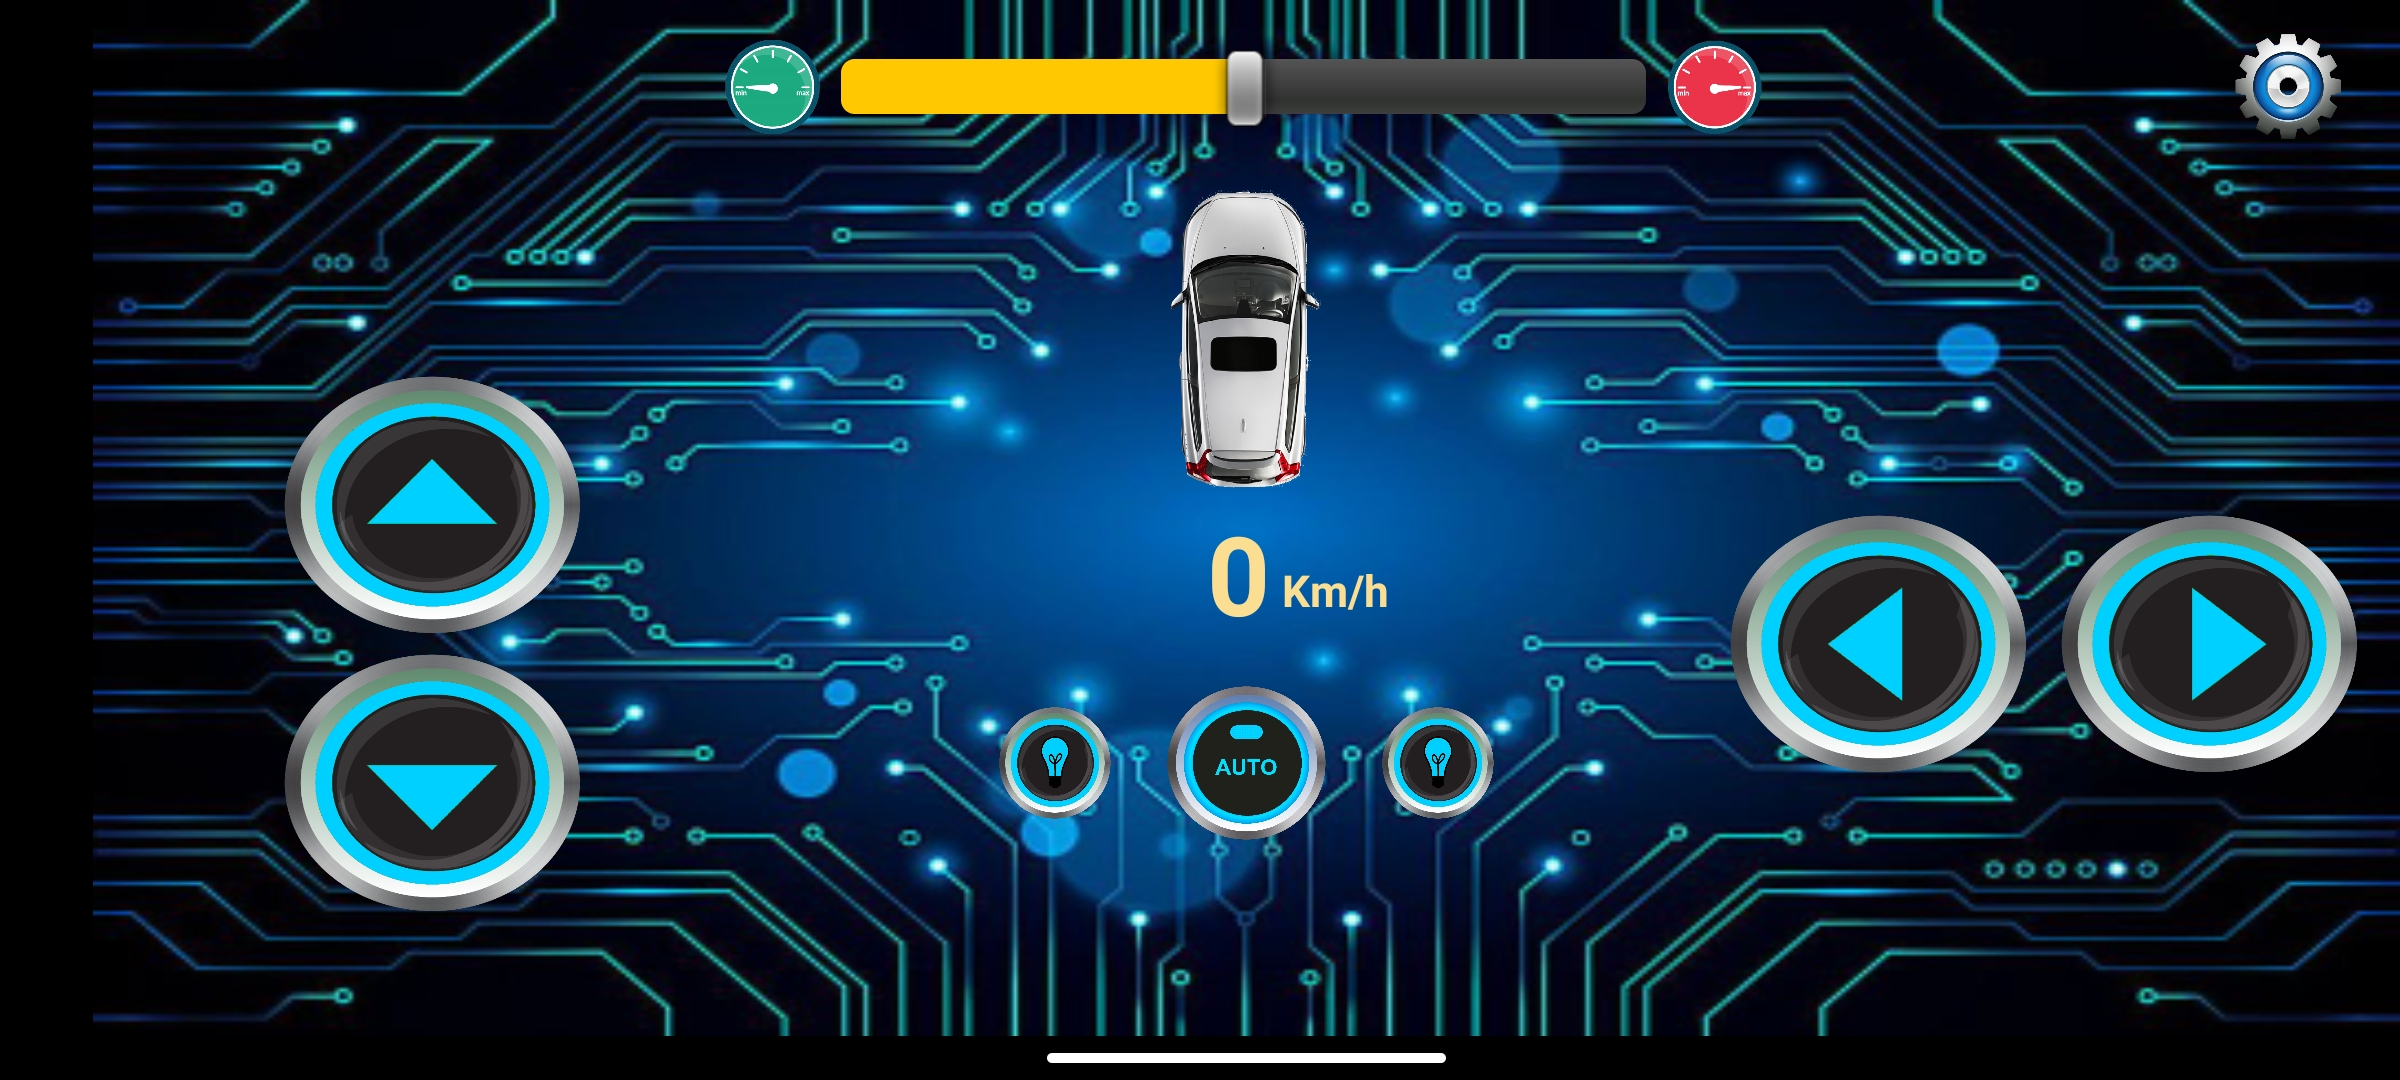
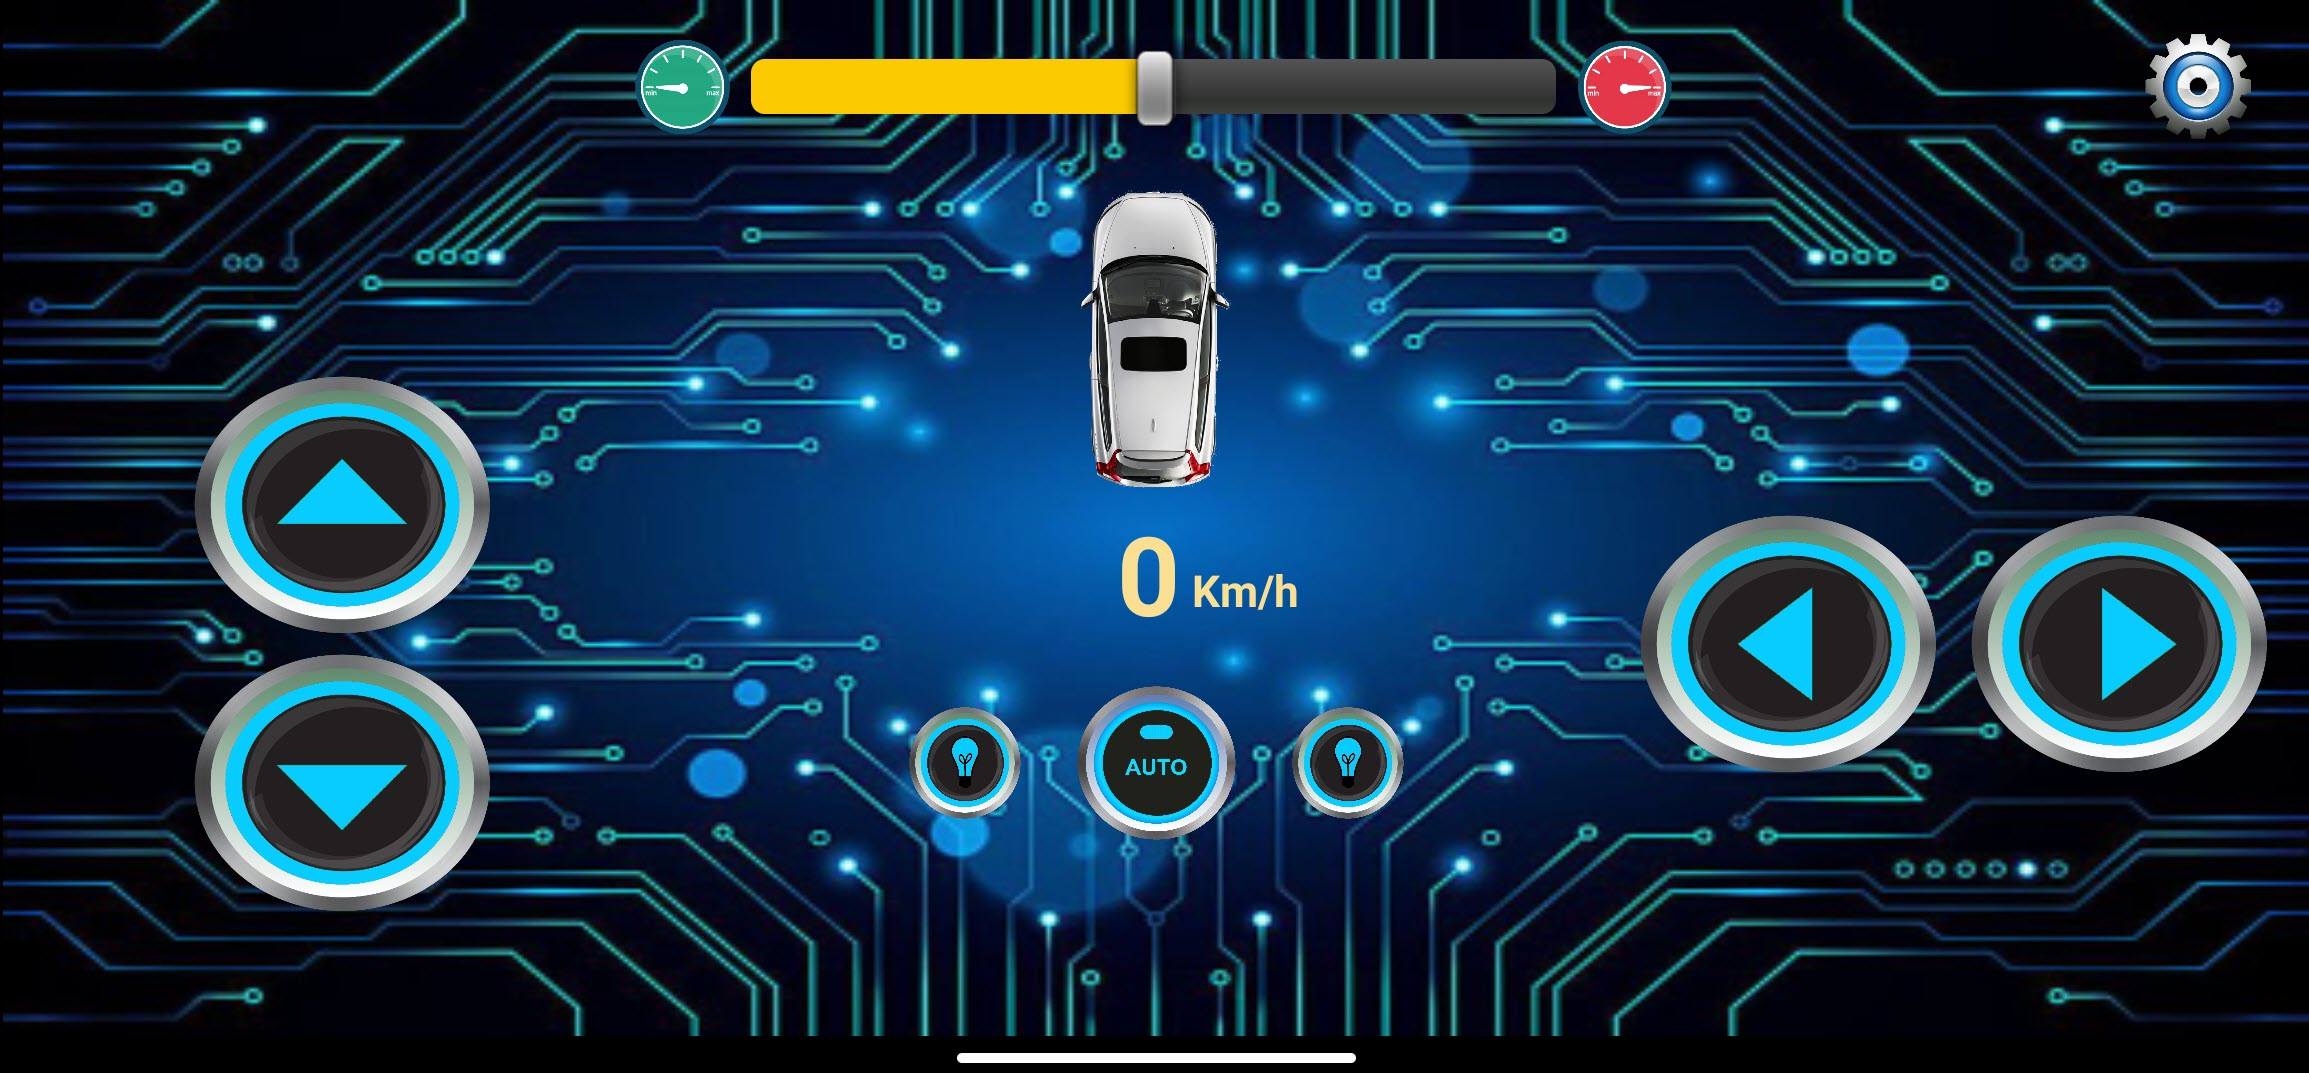
update home

diff --git a/index.html b/index.html
@@ -534,6 +534,11 @@
                                 <p class="fs-20 cl-16">
                                     <!-- <a href="#" class="web-lnk web-lnk-07 cl-fff">A B C</a> A B C. -->
                                 </p>
+
+                                <div >
+                                    <img src="/img/App SmartCarTech_4.jpg" alt="" width="510"> 
+                                </div>
+
                             </div>
                         </li>
                         <li>
@@ -547,7 +552,7 @@
                                 <div >
                                     <img src="/img/App SmartCarTech_3.jpg" alt="" width="510"> 
                                 </div>
-                                
+
                             </div>
                         </li>
                         <li>
@@ -557,6 +562,11 @@
                             <div>
                                 <h6 class="cl-05 font-roboto-medium mb-1">Thoải mái điều khiển và lập trình xe.</h6>
                                 <!-- <p class="fs-20 cl-16 mb-5 mb-lg-10"> SmartCarTech&trade; </p> -->
+
+                                <div >
+                                    <img src="/img/App SmartCarTech.jpg" alt="" width="510"> 
+                                </div>
+
                                 <h6 class="font-roboto-regular cl-18 mb-2"> Bạn Gặp Vấn Đề? <a href="#" class="cl-16 font-roboto-medium">Liên hệ Zalo 037.448.9282</a> để được hỗ trợ. </h6>
                             </div>
                         </li>
@@ -578,7 +588,7 @@
             <div class="row gx-0">
                 <div class="col-lg-5 order-2 order-lg-1">
                     <div class="ml-6 ml-md-8 my-8">
-                        <h1 class="fs-64 cl-11 mb-5">Điều khiển xe lập trình chưa bao giờ dễ dàng đến vậy!</h1>
+                        <h1 class="fs-64 cl-11 mb-5">Tải App Điều Khiển Cho Xe Lập Trình!</h1>
                         <p class="fs-24 cl-12 mb-7"> Tải App trên CH-Play ngay và trải nghiệm!</p>
                         <div class="d-flex mb-4">
                             <p class="fs-32 cl-000 mr-3"> </p>
